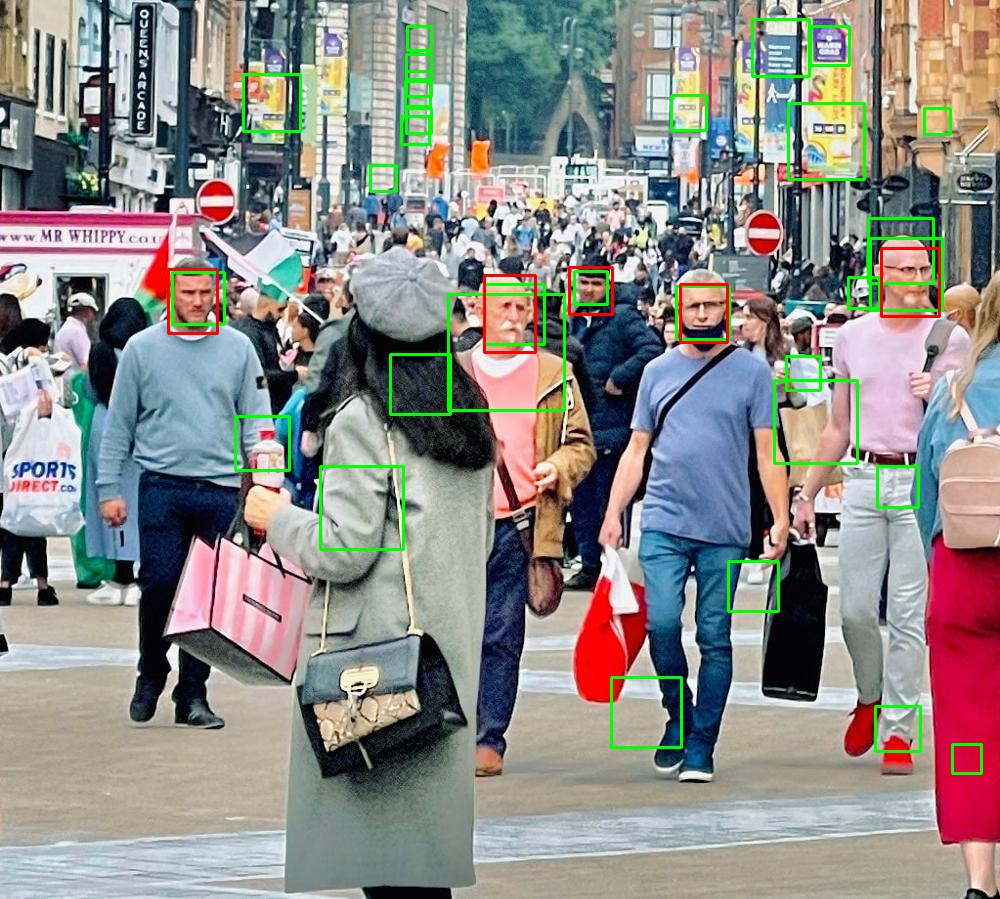
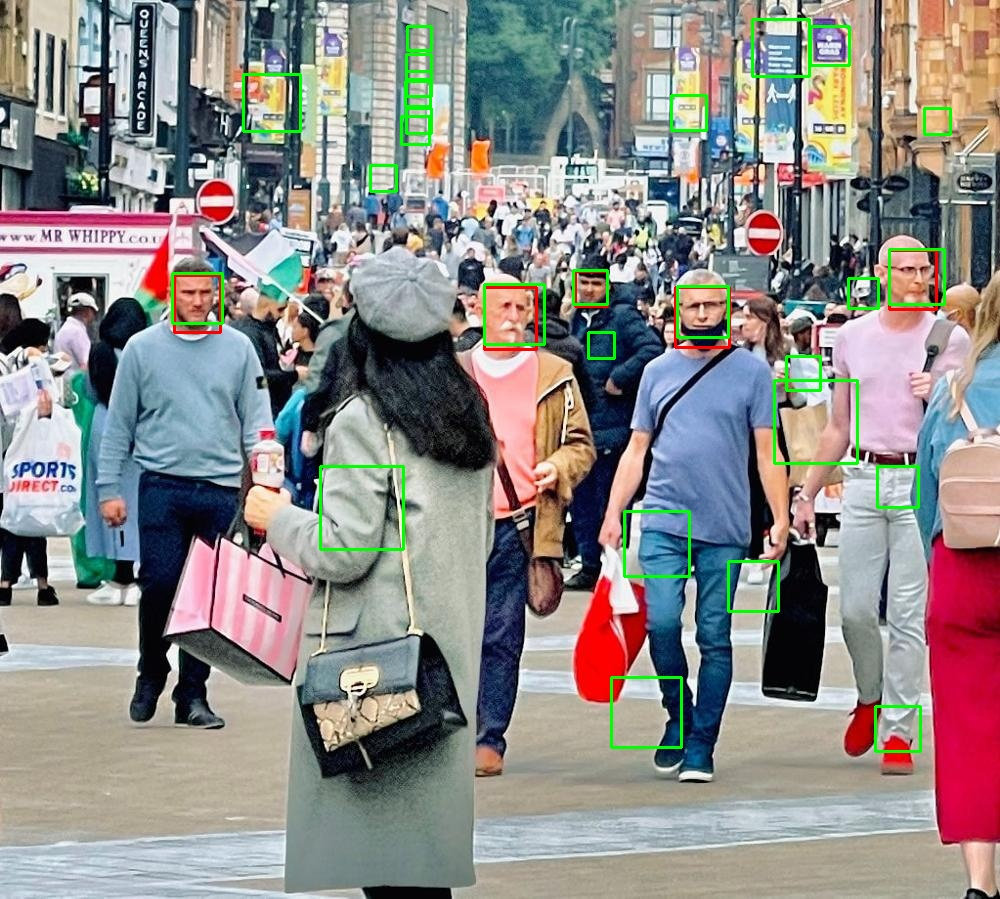
added f1 score - might not be working rn

diff --git a/Coursework/face_groundTruth.cpp b/Coursework/face_groundTruth.cpp
@@ -27,6 +27,9 @@ void draw_rect (Mat image, Rect r, Scalar c);
 void draw_truth_faces (string imageNum, Mat image, vector<Rect> &truth_faces);
 float num_correctly_detected_faces(vector<Rect> truth_faces, vector<Rect> detected_faces);
 float get_true_positive_rate(int correct_faces, vector<Rect> truth_faces);
+// float get_f1_score(float precision, float recall);
+float get_f1_score(float t_p, float f_p, float f_n);
+
 
 /** Global variables */
 String cascade_name = "frontalface.xml";
@@ -57,9 +60,13 @@ int main( int argc, const char** argv )
 
 	float correct_faces = num_correctly_detected_faces(truth_faces, detected_faces);
 	float tpr = get_true_positive_rate(correct_faces, truth_faces);
+	float false_positive = detected_faces.size() - correct_faces;
+	float false_negative = truth_faces.size() - correct_faces;
+	float f1_score = get_f1_score(correct_faces, false_positive, false_negative);
 
 	cout<< "[Correctly identified faces] " <<correct_faces <<endl;
 	cout<< "[True positive rate] " <<tpr <<endl;
+	cout<< "[F1-Score] " <<f1_score <<endl;
 	cout <<" "<<endl;
 
 	return 0;
@@ -130,7 +137,7 @@ void detectAndDisplay( Mat image , vector<Rect> &detected_faces)
 
 /** @function intersection_over_union */
 float num_correctly_detected_faces(vector<Rect> truth_faces, vector<Rect> detected_faces){
-	float theshold = 0.3;
+	float theshold = 0.6;
 	float max_iou = 0;
 	int correct_faces = 0;
 
@@ -160,7 +167,6 @@ float num_correctly_detected_faces(vector<Rect> truth_faces, vector<Rect> detect
 				float iou = intersect_area/union_area;
 				if( iou > max_iou) {
 					max_iou = iou;
-					// cout <<"max_iou: " <<max_iou<<endl;
 				}
 			}
 		}
@@ -175,5 +181,16 @@ float get_true_positive_rate(int correct_faces, vector<Rect> truth_faces){
 		cout << "No true faces" << endl;
 		return 0;
 	}
+}
+
+// float get_f1_score(float precision, float recall){
+// 	if(precision != 0 && recall != 0){
+// 		return (float) 2 * (precision*recall) / (precision+recall);
+// 	}else{
+// 		return 0;
+// 	}
+// }
+float get_f1_score(float t_p, float f_p, float f_n){
+	return (t_p == 0 && f_p == 0 && f_n ==0) ? 0: t_p/(t_p+0.5*(f_p+f_n));
 }
 
